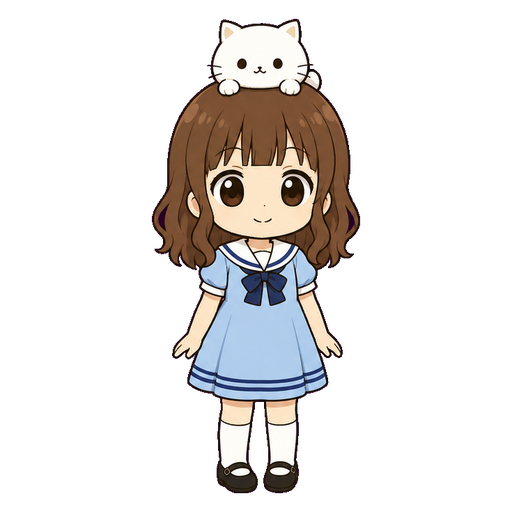
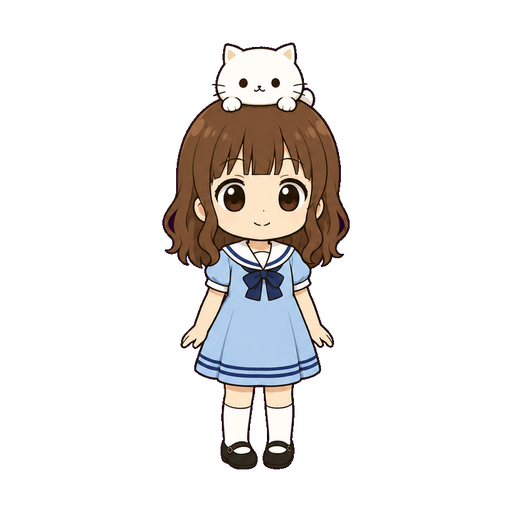
fix: give every sprite a real margin so the drawings stop reading as clipped
Each sprite sat 3% from the top and bottom of its frame. At a 54pt menu icon
that is a 1.6pt gap, so the elephant's ears looked cut off even though nothing
was actually cropped away. The padding goes to 10% of the longest side, and the
icon grows to 62pt so the animal itself still reads at about the same size.

The prep script now refuses to write a sprite whose margin came out too small,
since this is invisible in the file and only shows up on a device.

Changed region(s): [[0.2812, 0.0312, 0.7188, 0.9688]]

diff --git a/src/screens/HomeScreen.tsx b/src/screens/HomeScreen.tsx
@@ -185,7 +185,9 @@ const styles = StyleSheet.create({
     borderWidth: 1,
     borderColor: colors.line,
   },
-  cardPet: { width: 54, height: 54, marginRight: 14 },
+  // Sized so the animal itself still reads at ~50pt now that each sprite
+  // carries a margin of its own.
+  cardPet: { width: 62, height: 62, marginRight: 12 },
   cardText: { flex: 1 },
   cardTitle: { color: colors.ink, fontSize: 20, fontWeight: '900' },
   cardMeta: { color: colors.muted, fontSize: 13, fontWeight: '700', marginTop: 5 },

diff --git a/scripts/prepMascots.py b/scripts/prepMascots.py
@@ -30,7 +30,10 @@ OUT = ROOT / "assets" / "mascots"
 
 TRANSPARENT = 8  # alpha at or below this counts as background
 OUT_SIZE = 512  # plenty for a 150pt sprite on a 3x screen
-PAD = 0.04  # breathing room around the subject, as a fraction of its size
+# Breathing room around the subject, as a fraction of its longest side. At 0.04
+# a 54pt menu icon had a 1.6pt margin, which reads as the drawing being clipped
+# even though nothing is actually cut off.
+PAD = 0.10
 
 SKIN = (250, 222, 202)
 # Face, arms and hands were erased along with the background, and so were the
@@ -286,7 +289,14 @@ def crop_to_subject(im: Image.Image) -> Image.Image:
 
 def save(im: Image.Image, name: str) -> None:
     path = OUT / f"{name}.png"
-    crop_to_subject(im).save(path, optimize=True)
+    sprite = crop_to_subject(im)
+    box = sprite.getchannel("A").getbbox()
+    if box:
+        w, h = sprite.size
+        margin = min(box[0] / w, (w - box[2]) / w, box[1] / h, (h - box[3]) / h)
+        if margin < PAD / (1 + PAD * 2) * 0.9:
+            raise SystemExit(f"{name}: only {margin:.1%} margin, the drawing will look clipped")
+    sprite.save(path, optimize=True)
     print(f"  {path.relative_to(ROOT)}")
 
 
